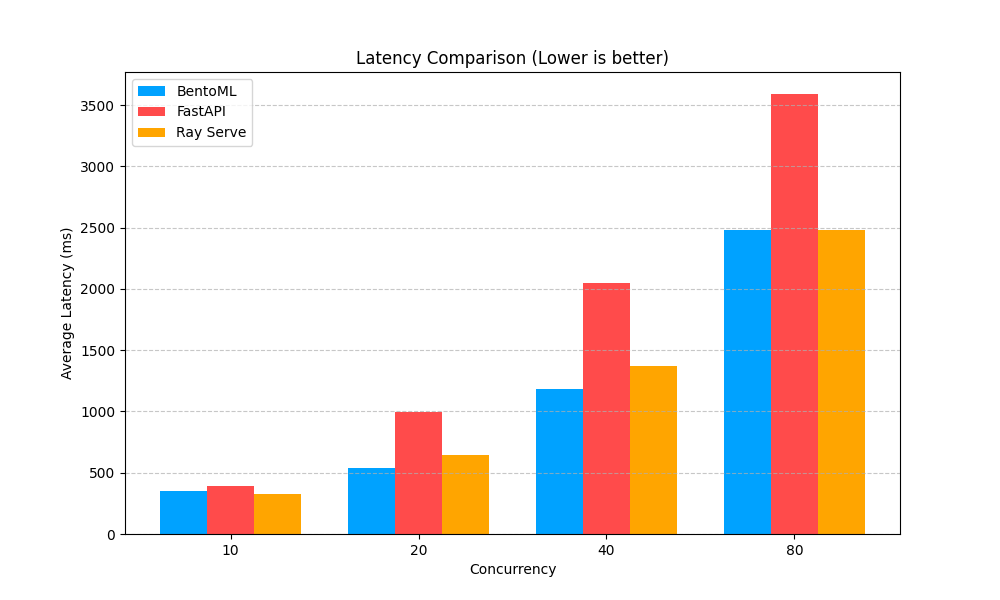
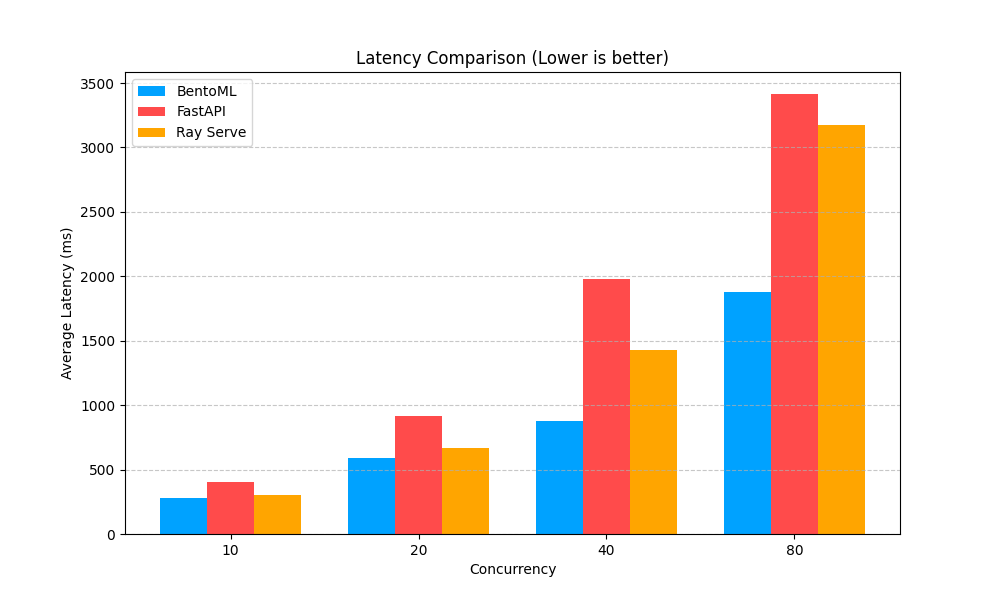
fix python and package versions

diff --git a/model/download_model.py b/model/download_model.py
@@ -2,7 +2,7 @@
 Download and save MobileNetV2 model for both BentoML and FastAPI services.
 Uses TensorFlow's built-in MobileNetV2 for ImageNet classification.
 
-IMPORTANT: This script must be run with TensorFlow 2.15.0 to ensure
+IMPORTANT: This script must be run with TensorFlow 2.16.1 to ensure
 model compatibility with the containerized services.
 """
 
@@ -71,10 +71,10 @@ if __name__ == "__main__":
     
     # Check TensorFlow version
     tf_version = tf.__version__
-    if not tf_version.startswith("2.15"):
+    if not tf_version.startswith("2.16"):
         print(f"WARNING: Using TensorFlow {tf_version}")
-        print("For best compatibility, use TensorFlow 2.15.0:")
-        print("  uv pip install tensorflow==2.15.0")
+        print("For best compatibility, use TensorFlow 2.16.1:")
+        print("  uv pip install tensorflow==2.16.1")
         print()
     
     model_path = download_and_save_model()

diff --git a/rayserve/app.py b/rayserve/app.py
@@ -26,7 +26,7 @@ MODEL_PATH = os.getenv("MODEL_PATH", "/app/model/mobilenet_v2.keras")
 LABELS_PATH = os.getenv("LABELS_PATH", "/app/imagenet_labels.txt")
 NUM_REPLICAS = int(os.getenv("RAY_NUM_REPLICAS", "1"))
 NUM_CPUS = float(os.getenv("RAY_NUM_CPUS", "1"))
-MEMORY_BYTES = int(os.getenv("RAY_MEMORY_BYTES", str(2 * 1024 * 1024 * 1024)))
+MEMORY_BYTES = int(os.getenv("RAY_MEMORY_BYTES", str(512 * 1024 * 1024)))
 
 def load_labels(path: str) -> list[str]:
     """Load ImageNet labels from a file."""
@@ -77,6 +77,7 @@ fastapi_app = FastAPI(
 
 @serve.deployment(
     num_replicas=NUM_REPLICAS,
+    max_ongoing_requests=100,
     ray_actor_options={
         "num_cpus": NUM_CPUS,
         "memory": MEMORY_BYTES,

diff --git a/reports/generic/loadtest_report.md b/reports/generic/loadtest_report.md
@@ -1,6 +1,6 @@
 # 📊 Benchmark Results: BentoML vs FastAPI vs Ray Serve
 
-**Run Date:** 2026-01-16 18:15:05
+**Run Date:** 2026-01-19 17:30:09
 - **Duration per level:** s
 - **Concurrency levels:** 
 
@@ -10,32 +10,32 @@
 ![Throughput Comparison](throughput_comparison.png)
 ![Latency Comparison](latency_comparison.png)
 
-- **Latency King:** BentoML (won 2/4 levels)
-- **Throughput King:** BentoML (won 3/4 levels)
+- **Latency King:** BentoML (won 4/4 levels)
+- **Throughput King:** BentoML (won 2/4 levels)
 
 ## 📈 Throughput Comparison (req/s)
 | Concurrency | BentoML | FastAPI | Ray Serve | Winner |
 | :--- | :--- | :--- | :--- | :--- |
-| 10 | 15.30 | 15.70 | 17.00 | **Ray Serve** |
-| 20 | 19.10 | 15.40 | 18.50 | **BentoML** |
-| 40 | 18.50 | 15.10 | 18.30 | **BentoML** |
-| 80 | 19.40 | 14.80 | 15.90 | **BentoML** |
+| 10 | 19.80 | 16.50 | 20.00 | **Ray Serve** |
+| 20 | 17.40 | 17.50 | 20.70 | **Ray Serve** |
+| 40 | 22.60 | 16.10 | 18.90 | **BentoML** |
+| 80 | 23.40 | 16.70 | 17.10 | **BentoML** |
 
 ## ⏱ Latency Comparison (Average ms)
 | Concurrency | BentoML | FastAPI | Ray Serve | Winner |
 | :--- | :--- | :--- | :--- | :--- |
-| 10 | 347.77 | 389.31 | 325.49 | **Ray Serve** |
-| 20 | 542.47 | 998.08 | 646.56 | **BentoML** |
-| 40 | 1181.82 | 2050.65 | 1374.79 | **BentoML** |
-| 80 | 2483.05 | 3591.40 | 2478.91 | **Ray Serve** |
+| 10 | 280.65 | 405.51 | 303.11 | **BentoML** |
+| 20 | 592.57 | 913.49 | 665.54 | **BentoML** |
+| 40 | 875.66 | 1978.24 | 1426.84 | **BentoML** |
+| 80 | 1880.65 | 3415.23 | 3172.46 | **BentoML** |
 
 ## 🎯 P95 Latency Comparison (ms)
 | Concurrency | BentoML | FastAPI | Ray Serve | Winner |
 | :--- | :--- | :--- | :--- | :--- |
-| 10 | 412.64 | 467.00 | 447.13 | **BentoML** |
-| 20 | 735.65 | 1191.41 | 882.06 | **BentoML** |
-| 40 | 1618.28 | 2377.66 | 1813.89 | **BentoML** |
-| 80 | 3437.97 | 4859.25 | 4564.54 | **BentoML** |
+| 10 | 471.39 | 647.57 | 442.04 | **Ray Serve** |
+| 20 | 1062.19 | 1017.35 | 937.61 | **Ray Serve** |
+| 40 | 1406.76 | 2505.43 | 1954.30 | **BentoML** |
+| 80 | 3123.61 | 4398.92 | 4793.71 | **BentoML** |
 
 ---
 *Generated by Automated Benchmark Suite*

diff --git a/reports/locust/locust_comparison.md b/reports/locust/locust_comparison.md
@@ -1,6 +1,6 @@
 # 📈 Locust Load Test Comparison
 
-**Run Date:** 2026-01-19 16:44:47
+**Run Date:** 2026-01-19 18:15:06
 
 ## 📊 Visual Comparison
 ![Throughput](locust_throughput.png)
@@ -10,26 +10,26 @@
 
 | Metric | BentoML | FastAPI | Ray Serve | Winner |
 | :--- | :--- | :--- | :--- | :--- |
-| Throughput (req/s) | 26.34 | 21.06 | 25.10 | **BentoML** |
-| Avg Latency (ms) | 105.29 | 587.21 | 191.58 | **BentoML** |
-| P50 Latency (ms) | 92.00 | 600.00 | 170.00 | **BentoML** |
-| P95 Latency (ms) | 220.00 | 1300.00 | 410.00 | **BentoML** |
-| P99 Latency (ms) | 320.00 | 1600.00 | 500.00 | **BentoML** |
-| Total Requests | 1559.00 | 1238.00 | 1483.00 | **BentoML** |
+| Throughput (req/s) | 42.96 | 21.81 | 33.31 | **BentoML** |
+| Avg Latency (ms) | 473.61 | 1225.99 | 698.34 | **BentoML** |
+| P50 Latency (ms) | 500.00 | 1400.00 | 770.00 | **BentoML** |
+| P95 Latency (ms) | 710.00 | 1700.00 | 940.00 | **BentoML** |
+| P99 Latency (ms) | 830.00 | 2200.00 | 990.00 | **BentoML** |
+| Total Requests | 2538.00 | 1275.00 | 1970.00 | **BentoML** |
 
 ## 📋 Detailed Results per Service
 
 ### BentoML
-- **Requests:** 1559 (0 failures)
-- **RPS:** 26.34
-- **Latency:** Avg: 105.29ms | P95: 220.00ms | P99: 320.00ms | Max: 388.81ms
+- **Requests:** 2538 (0 failures)
+- **RPS:** 42.96
+- **Latency:** Avg: 473.61ms | P95: 710.00ms | P99: 830.00ms | Max: 970.91ms
 
 ### FastAPI
-- **Requests:** 1238 (0 failures)
-- **RPS:** 21.06
-- **Latency:** Avg: 587.21ms | P95: 1300.00ms | P99: 1600.00ms | Max: 3134.56ms
+- **Requests:** 1275 (0 failures)
+- **RPS:** 21.81
+- **Latency:** Avg: 1225.99ms | P95: 1700.00ms | P99: 2200.00ms | Max: 6259.47ms
 
 ### RayServe
-- **Requests:** 1483 (0 failures)
-- **RPS:** 25.10
-- **Latency:** Avg: 191.58ms | P95: 410.00ms | P99: 500.00ms | Max: 642.18ms
+- **Requests:** 1970 (0 failures)
+- **RPS:** 33.31
+- **Latency:** Avg: 698.34ms | P95: 940.00ms | P99: 990.00ms | Max: 1056.14ms
